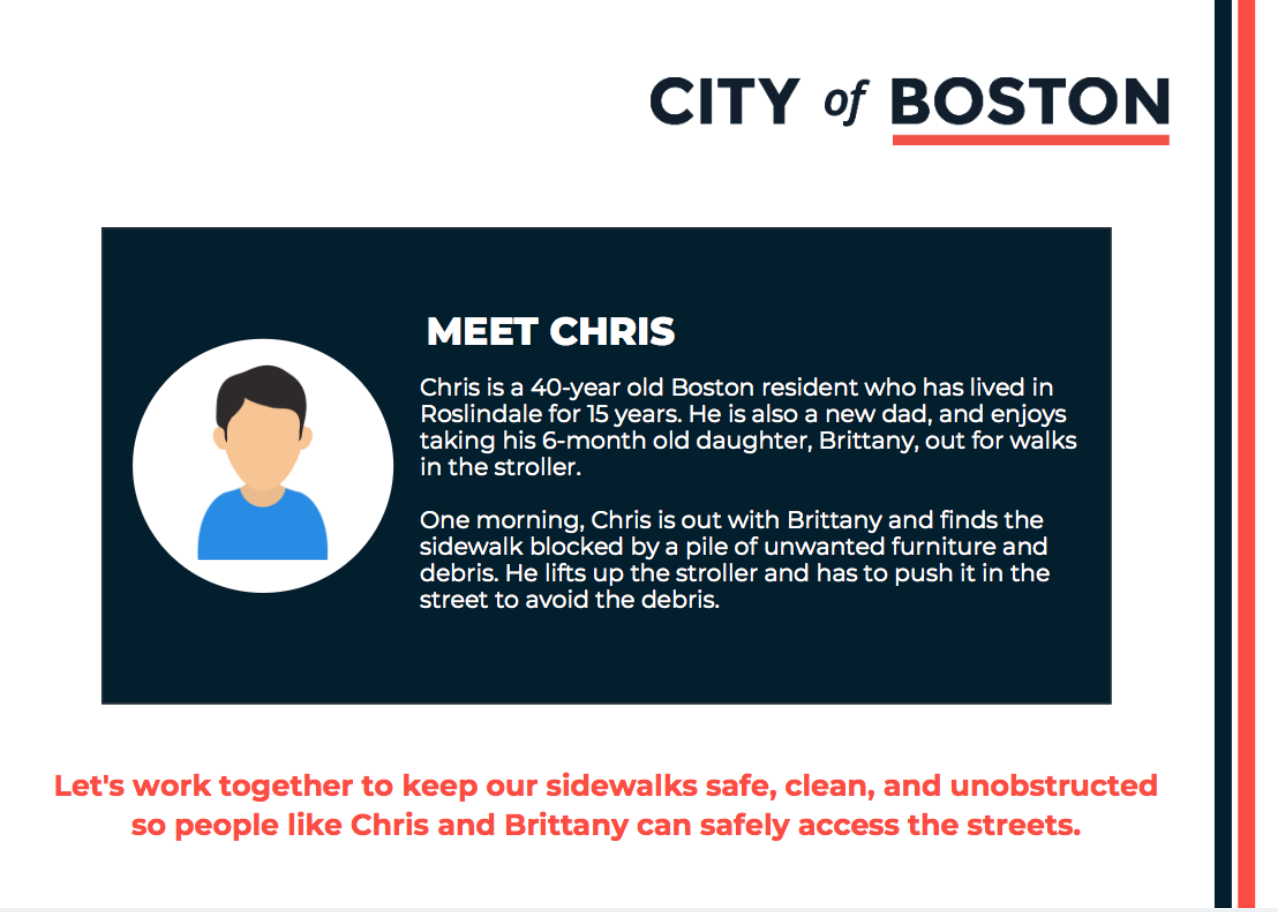
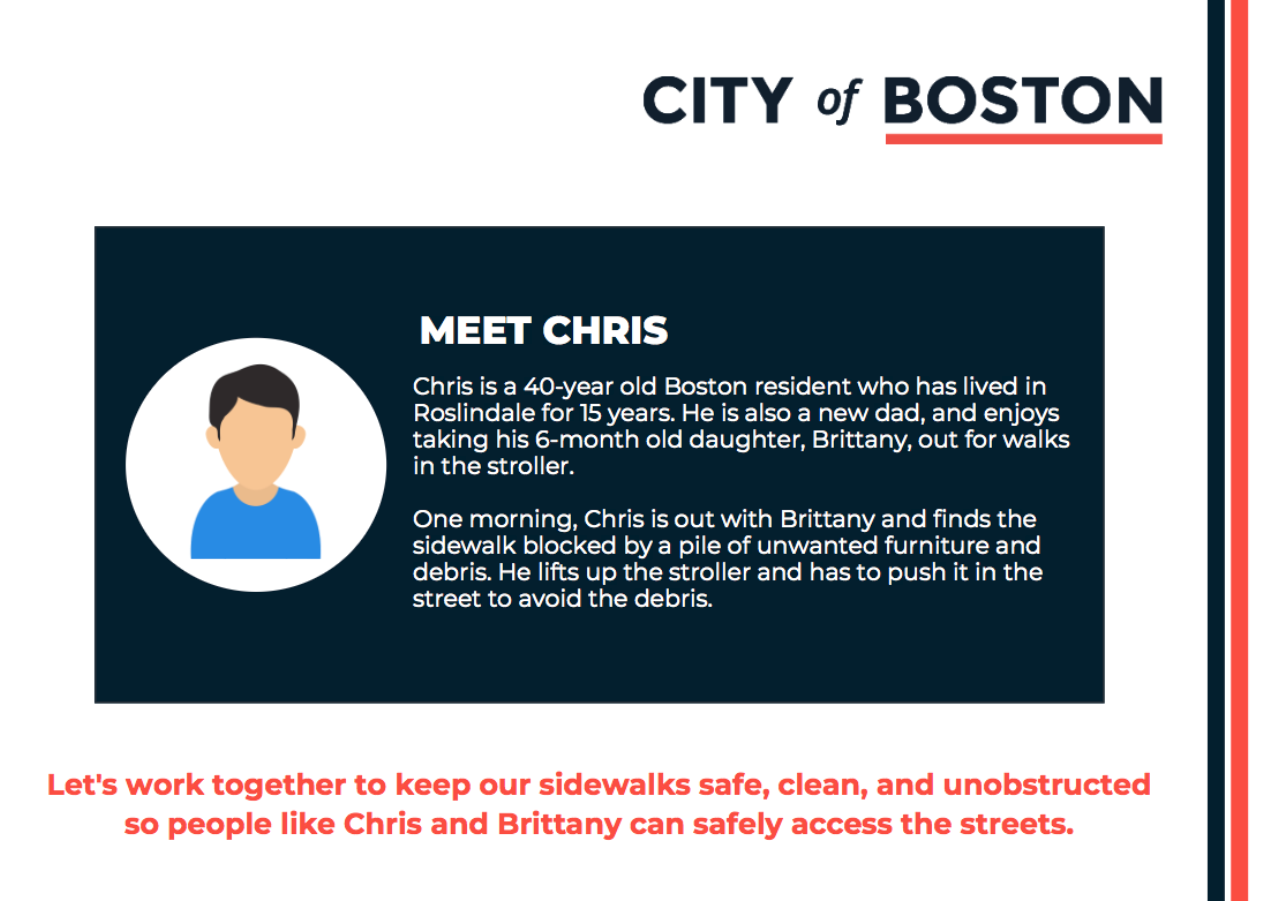
updated index images

diff --git a/index.html b/index.html
@@ -24,14 +24,14 @@
       <div class="col-md-4 container mobile_column" id="thesis">
         <a href="https://automating.nyc"><img src="img/thesis_crop.png" alt="a screenshot of a body of text which says 'can I play with an algorithm'" class="image">
           <div class="overlay">
-            <div class="text">thesis </div>
+            <div class="text">thesis: automating NYC </div>
         </a>
       </div>
     </div>
 
 
     <div class="col-md-4 container mobile_column" id="codeEnforcement">
-      <a href="codeEnforcement.html"><img src="img/chris_crop.png" alt="a screenshot of a body of text with the City of Boston logo in the top right" class="image">
+      <a href="codeEnforcement.html"><img src="img/chris_index.png" alt="a screenshot of a body of text with the City of Boston logo in the top right" class="image">
         <div class="overlay">
           <div class="text"> UX of ticketing</div>
 
